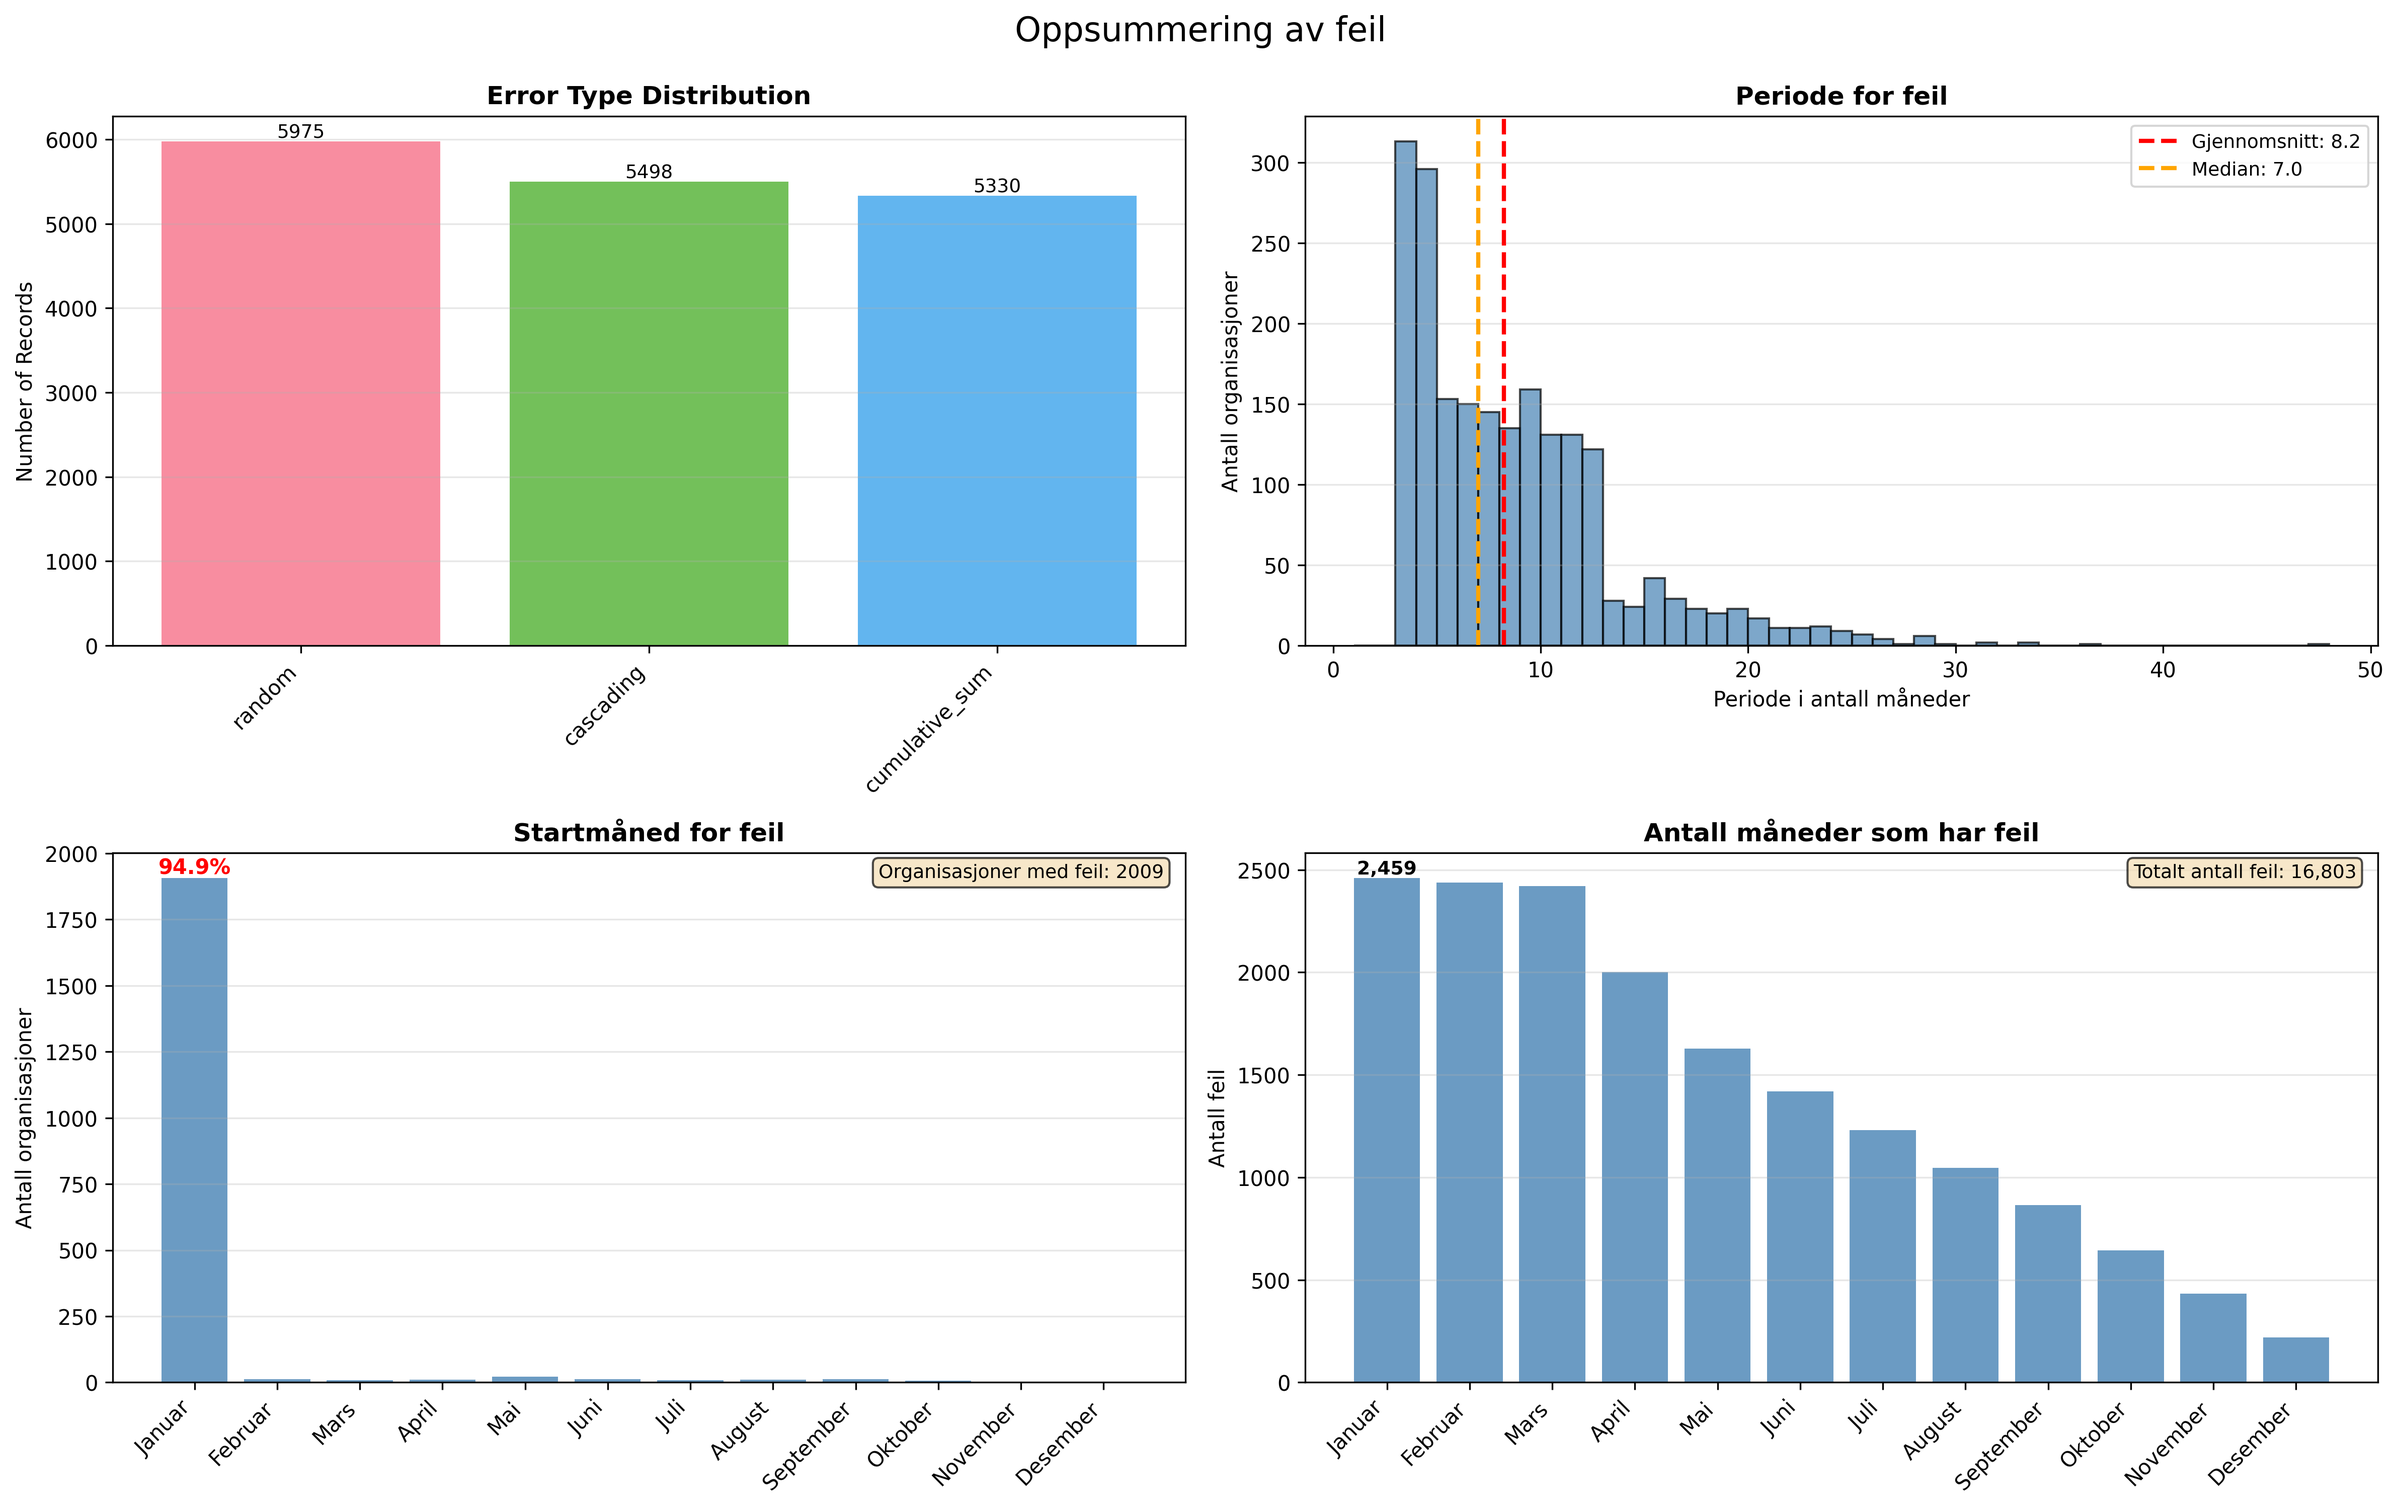
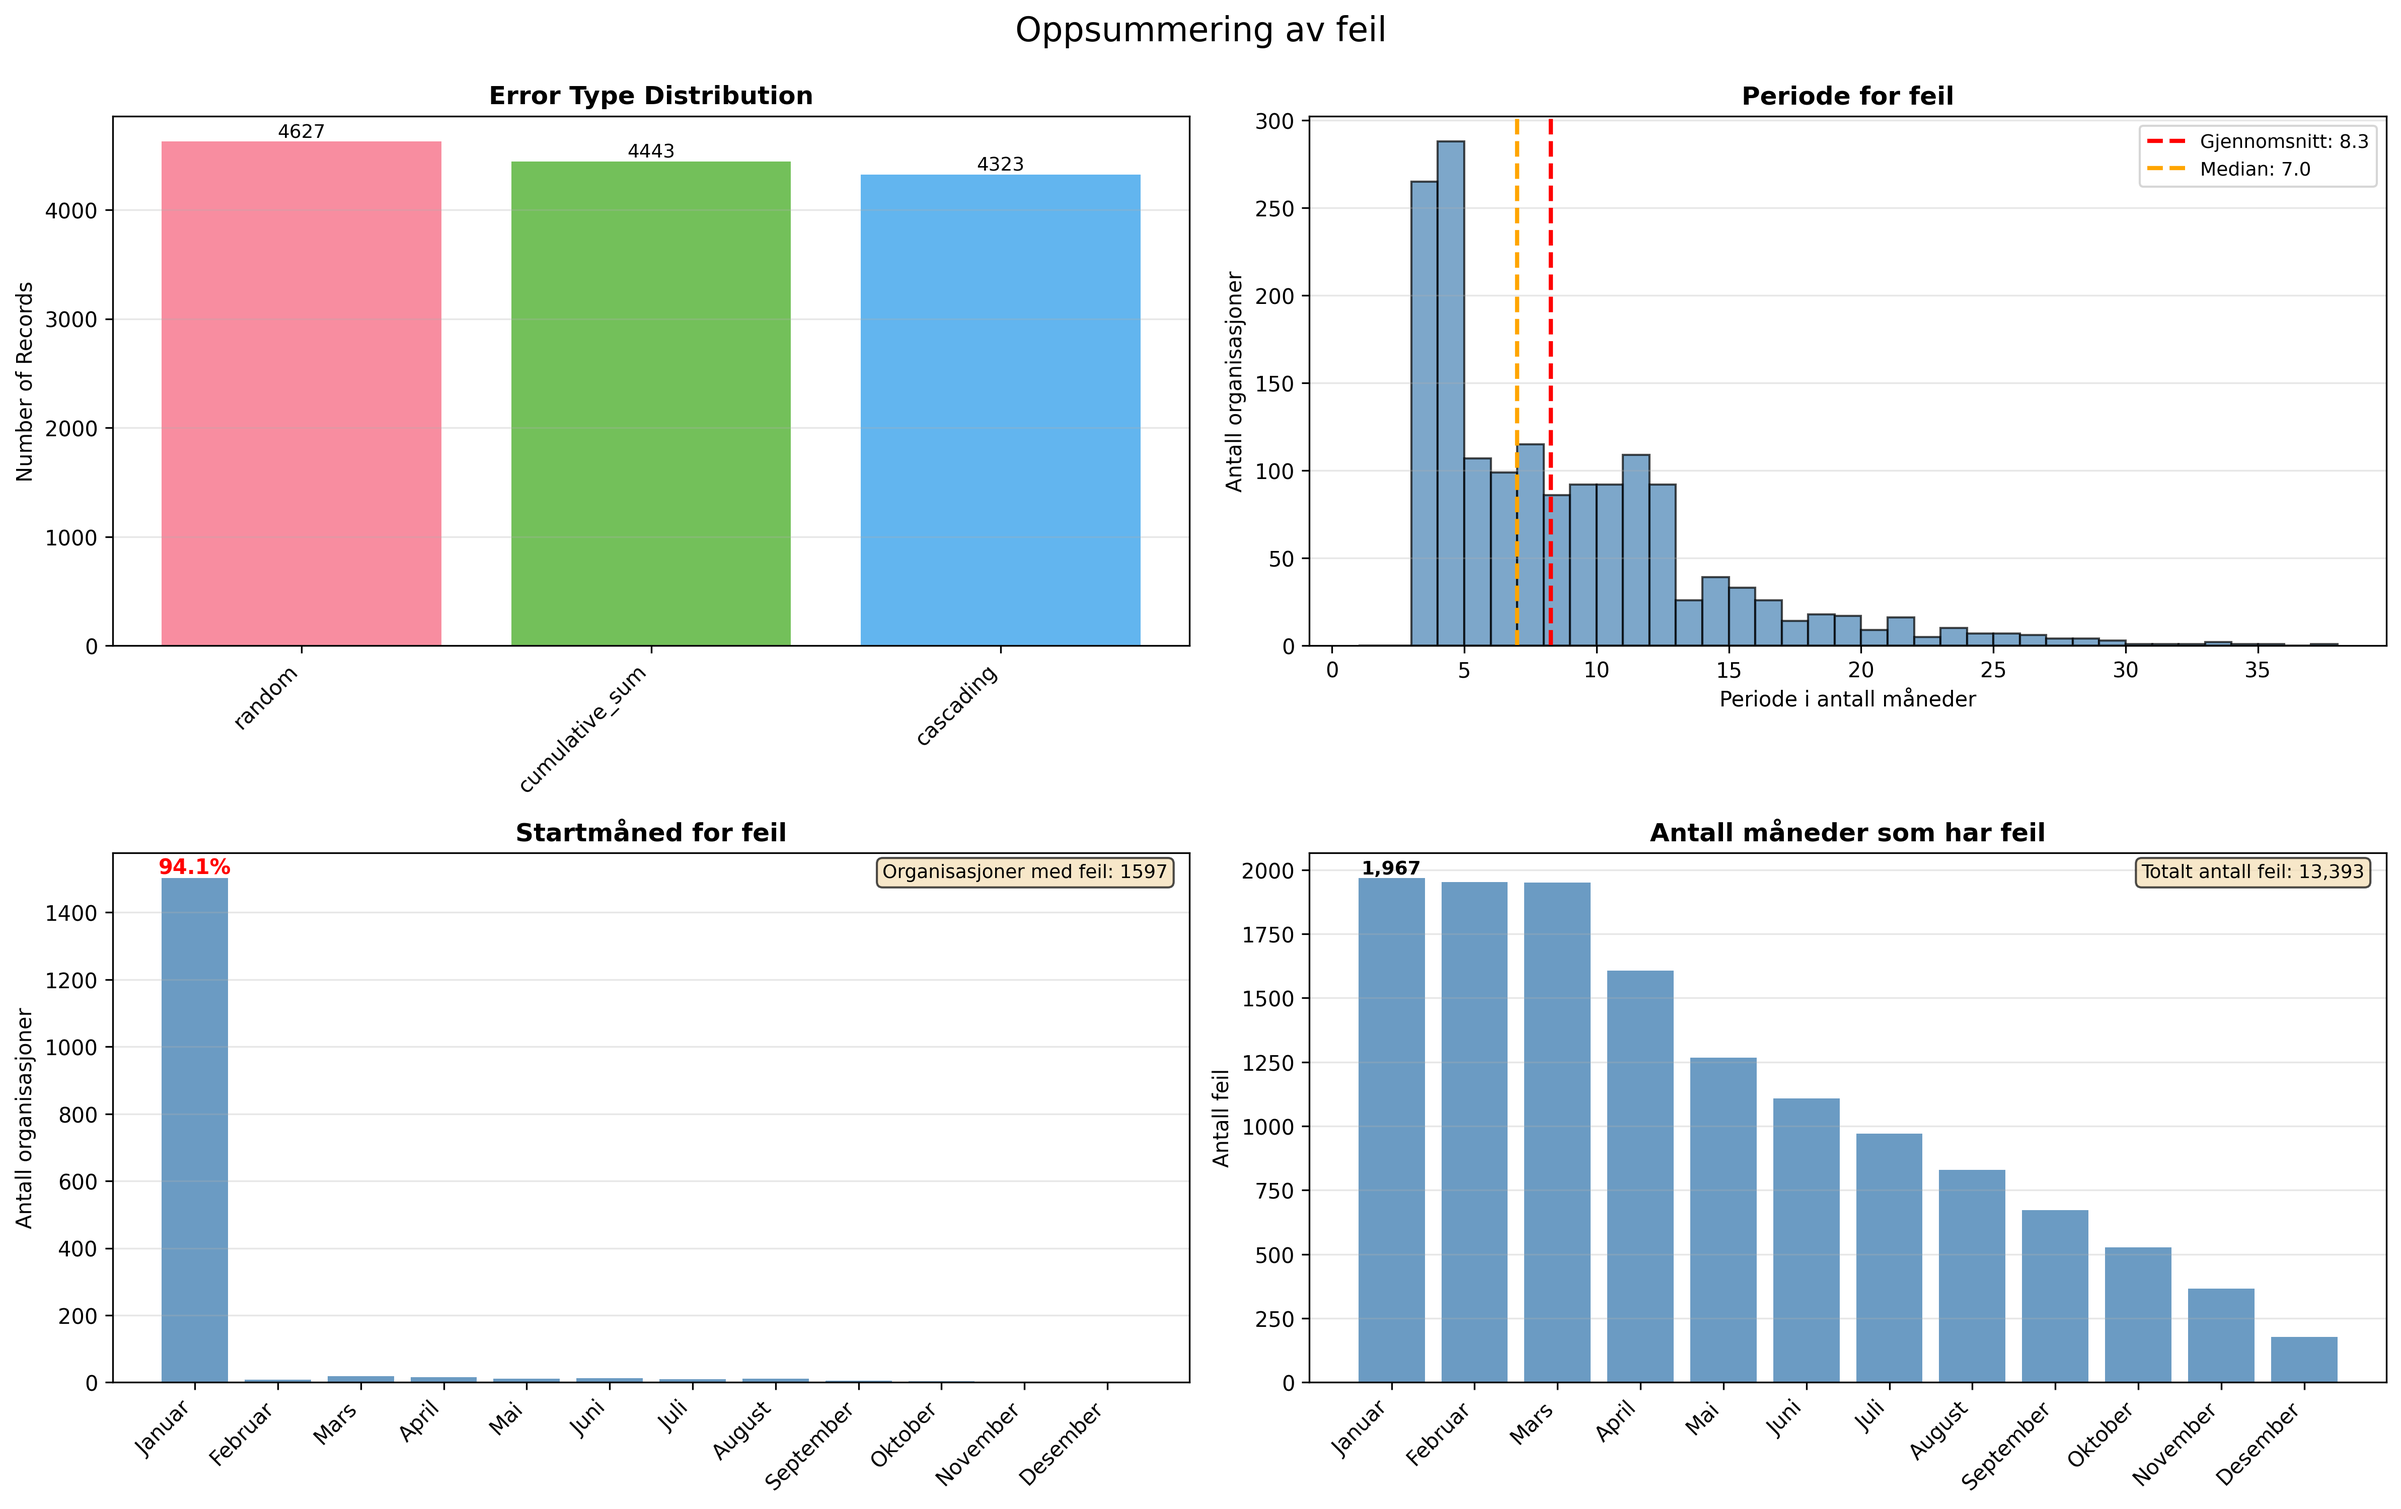
Mulighet for visualisering av akkumuleringsfeil.

diff --git a/experimental/Ruben/src/acc_viz.py b/experimental/Ruben/src/acc_viz.py
@@ -1,0 +1,174 @@
+import matplotlib.pyplot as plt
+import seaborn as sns
+import pandas as pd
+import numpy as np
+
+class AccumulationErrorVisualizer:
+    def __init__(self, df, cfg):
+        self.df = df
+        self.cfg = cfg
+        self.original_col = f"{cfg.omsetning}_original"
+
+        self.month_names = ['Januar', 'Februar', 'Mars', 'April', 'Mai', 'Juni', 
+                       'Juli', 'August', 'September', 'Oktober', 'November', 'Desember']
+        
+    def create_error_report(self, save_path=None, figsize=(16, 10)):
+        fig, axes = plt.subplots(2, 2, figsize=figsize)
+        fig.suptitle('Oppsummering av feil', fontsize=16, y=0.995)
+        
+        self._plot_error_type_distribution(axes[0, 0])
+        
+        self._plot_error_duration_distribution(axes[0, 1])
+        
+        self._plot_start_month_distribution(axes[1, 0])
+        
+        self._plot_all_affected_months_distribution(axes[1, 1])
+        
+        plt.tight_layout()
+        
+        if save_path:
+            plt.savefig(save_path, dpi=300, bbox_inches='tight')
+        plt.show()
+        
+    def _plot_error_type_distribution(self, ax):
+        error_data = self.df[self.df['error_type'].notna()]
+        error_counts = error_data['error_type'].value_counts()
+        
+        colors = sns.color_palette("husl", len(error_counts))
+        ax.bar(range(len(error_counts)), error_counts.values, color=colors, alpha=0.8)
+        ax.set_xticks(range(len(error_counts)))
+        ax.set_xticklabels(error_counts.index, rotation=45, ha='right')
+        ax.set_ylabel('Number of Records')
+        ax.set_title('Error Type Distribution', fontsize=12, fontweight='bold')
+        ax.grid(axis='y', alpha=0.3)
+        
+        for i, v in enumerate(error_counts.values):
+            ax.text(i, v, str(v), ha='center', va='bottom', fontsize=9)
+    
+    def _plot_error_duration_distribution(self, ax):
+        error_orgs = self.df[self.df[self.cfg.error_col] == 1][self.cfg.bedrift].unique()
+        
+        durations = []
+        for org in error_orgs:
+            org_data = self.df[self.df[self.cfg.bedrift] == org].sort_values(self.cfg.dato)
+            org_errors = org_data[org_data['error_type'].notna()]
+            if len(org_errors) > 0:
+                durations.append(len(org_errors))
+        
+        if len(durations) == 0:
+            ax.text(0.5, 0.5, 'No errors found', transform=ax.transAxes, 
+                    ha='center', va='center')
+            ax.axis('off')
+            return
+        
+        bins = range(1, max(durations) + 2)
+        ax.hist(durations, bins=bins, edgecolor='black', alpha=0.7, color='steelblue')
+        ax.set_xlabel('Periode i antall måneder', fontsize=10)
+        ax.set_ylabel('Antall organisasjoner', fontsize=10)
+        ax.set_title('Periode for feil', fontsize=12, fontweight='bold')
+        ax.grid(axis='y', alpha=0.3)
+        
+        mean_duration = np.mean(durations)
+        median_duration = np.median(durations)
+        ax.axvline(mean_duration, color='red', linestyle='--', linewidth=2, 
+                   label=f'Gjennomsnitt: {mean_duration:.1f}')
+        ax.axvline(median_duration, color='orange', linestyle='--', linewidth=2,
+                   label=f'Median: {median_duration:.1f}')
+        ax.legend(fontsize=9)
+    
+    def _plot_start_month_distribution(self, ax):
+        error_orgs = self.df[self.df[self.cfg.error_col] == 1][self.cfg.bedrift].unique()
+        
+        start_months = []
+        for org in error_orgs:
+            org_data = self.df[self.df[self.cfg.bedrift] == org].sort_values(self.cfg.dato)
+            org_errors = org_data[org_data['error_type'].notna()]
+            
+            if len(org_errors) > 0:
+                first_error_month = org_errors.iloc[0][self.cfg.dato].month
+                start_months.append(first_error_month)
+        
+        if len(start_months) == 0:
+            ax.text(0.5, 0.5, 'No errors found', transform=ax.transAxes, 
+                    ha='center', va='center')
+            ax.axis('off')
+            return
+        
+        month_counts = pd.Series(start_months).value_counts().sort_index()
+        
+        month_counts = month_counts.reindex(range(1, 13), fill_value=0)
+        
+        colors = "steelblue"
+        
+        ax.bar(range(12), month_counts.values, color=colors, alpha=0.8)
+        ax.set_xticks(range(12))
+        ax.set_xticklabels(self.month_names, rotation=45, ha='right')
+        ax.set_ylabel('Antall organisasjoner', fontsize=10)
+        ax.set_title('Startmåned for feil', fontsize=12, fontweight='bold')
+        ax.grid(axis='y', alpha=0.3)
+        
+        if month_counts.iloc[0] > 0:
+            jan_pct = (month_counts.iloc[0] / len(start_months) * 100)
+            ax.text(0, month_counts.iloc[0], f'{jan_pct:.1f}%', 
+                    ha='center', va='bottom', fontweight='bold', color='red', fontsize=10)
+        
+        ax.text(0.98, 0.98, f'Organisasjoner med feil: {len(start_months)}', 
+                transform=ax.transAxes, ha='right', va='top', fontsize=9,
+                bbox=dict(boxstyle='round', facecolor='wheat', alpha=0.7))
+    
+    def _plot_all_affected_months_distribution(self, ax):
+        error_records = self.df[self.df['error_type'].notna()]
+        
+        if len(error_records) == 0:
+            ax.text(0.5, 0.5, 'No errors found', transform=ax.transAxes, 
+                    ha='center', va='center')
+            ax.axis('off')
+            return
+        
+        error_months = error_records[self.cfg.dato].dt.month
+        month_counts = error_months.value_counts().sort_index()
+        
+        month_counts = month_counts.reindex(range(1, 13), fill_value=0)
+        
+        ax.bar(range(12), month_counts.values, color='steelblue', alpha=0.8)
+        ax.set_xticks(range(12))
+        ax.set_xticklabels(self.month_names, rotation=45, ha='right')
+        ax.set_ylabel('Antall feil', fontsize=10)
+        ax.set_title('Antall måneder som har feil', 
+                    fontsize=12, fontweight='bold')
+        ax.grid(axis='y', alpha=0.3)
+        
+        ax.text(0.98, 0.98, f'Totalt antall feil: {len(error_records):,}', 
+                transform=ax.transAxes, ha='right', va='top', fontsize=9,
+                bbox=dict(boxstyle='round', facecolor='wheat', alpha=0.7))
+        
+        max_idx = month_counts.idxmax() - 1
+        max_val = month_counts.max()
+        ax.text(max_idx, max_val, f'{max_val:,}', 
+                ha='center', va='bottom', fontweight='bold', fontsize=9)
+
+if __name__ == "__main__":
+    from create_accumulation_error import AccumulationErrors
+    from load_data import get_all_data
+    from config import Config
+    import os
+    
+    if os.getcwd() == "/home/onyxia/work/play-aiml-edit":
+        os.chdir(path="experimental/Ruben/src/")
+
+    print("Henter ut data fra VHI")
+    hent_data = get_all_data(cfg=Config)
+    
+    print("Lager akkumuleringsfeil")
+    make_errors = AccumulationErrors(
+        cfg=Config,
+        years=Config.years,
+        type_of_errors=Config.acc_errors,
+        total_error_prct=Config.bedrifter_med_feil
+    )
+    
+    df = make_errors.create_accumulation_errors(df=hent_data)
+    
+    print("\nLager visualiseringer")
+    viz = AccumulationErrorVisualizer(df=df, cfg=Config)
+    viz.create_error_report(save_path="figurer/accumulation_error.png")

diff --git a/experimental/Ruben/src/create_accumulation_error.py b/experimental/Ruben/src/create_accumulation_error.py
@@ -113,14 +113,11 @@ class AccumulationErrors:
             months = year_data[self.cfg.dato].dt.month.values
             matching_positions = np.where(months == self.cfg.start_month)[0]
             
-            # Need enough space after start position
             valid_positions = matching_positions[matching_positions <= len(year_data) - 3]
             
             if len(valid_positions) > 0:
-                # Return position relative to year_data
-                return valid_positions[0]  # Take first January (if multiple exist)
+                return valid_positions[0]
         
-        # Random position within the year
         max_start = max(0, len(year_data) - 3)
         return np.random.randint(0, max_start + 1) if max_start > 0 else 0
     
